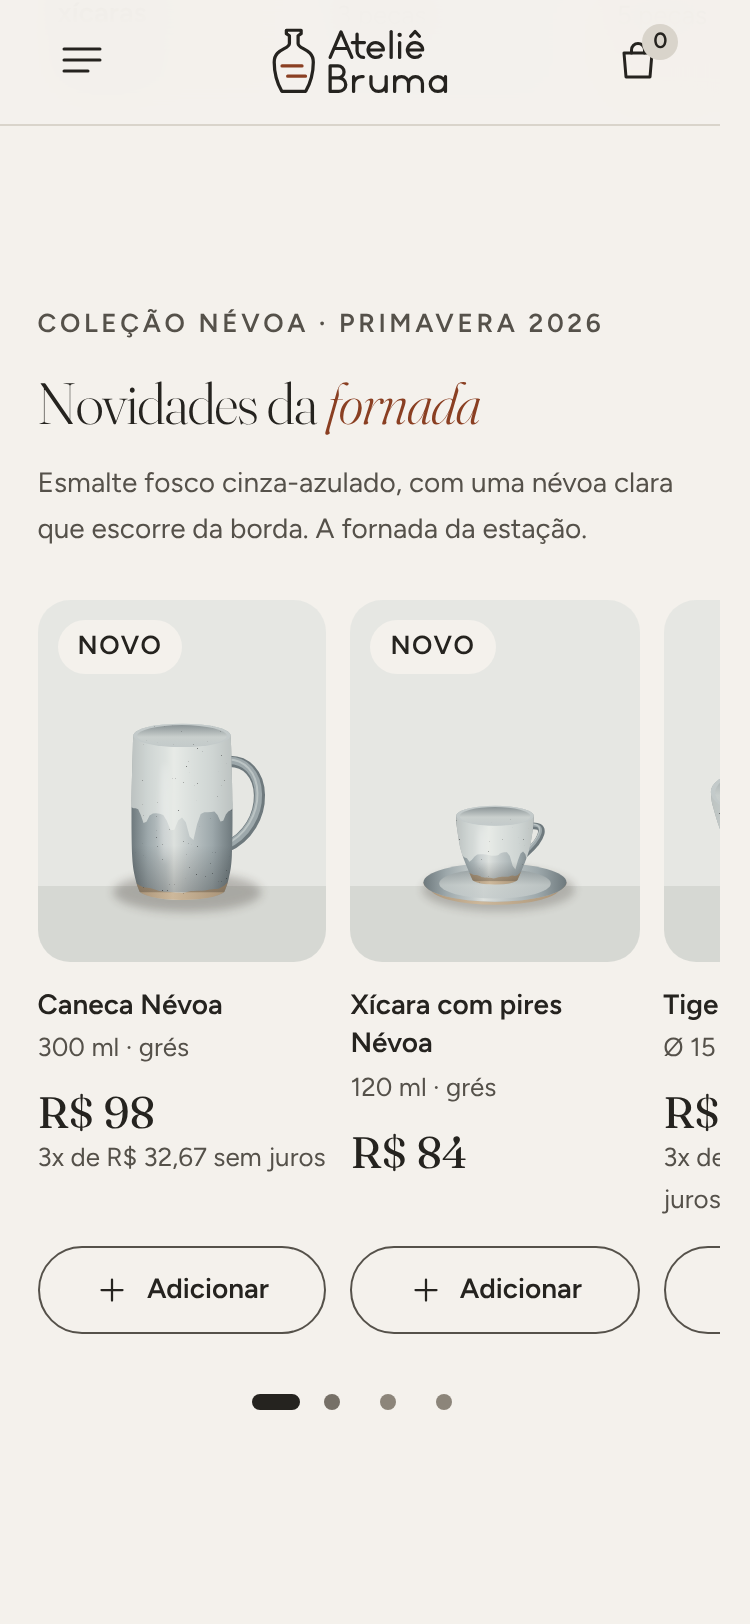
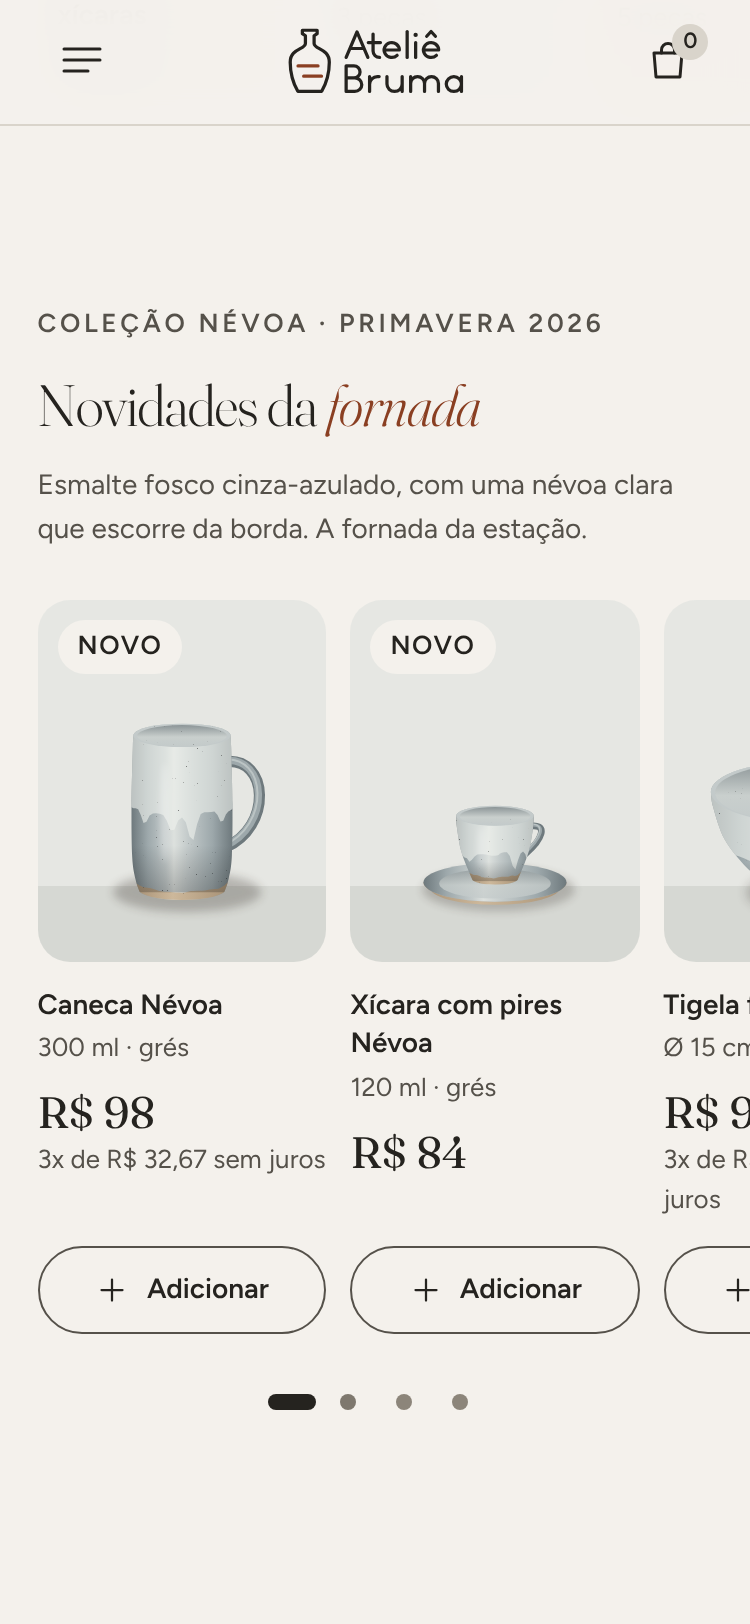
fix(site): margens simétricas no celular e auditoria axe sem violações
Remove a reserva da barra de rolagem fora do desktop (deslocava tudo
15 px), impede a pílula do hero de alargar o painel, unifica o recuo
interno dos painéis em 24 px e espelha os controles dos cantos do hero.
Aviso do topo vira região nomeada e a assinatura do rodapé vira
pseudo-elemento decorativo.

Claude-Session: https://claude.ai/code/session_01FkMrr91MfEycNeFAuJrAR9

diff --git a/site/styles.css b/site/styles.css
@@ -64,13 +64,16 @@
 /* ---------- Base ---------- */
 *, *::before, *::after { box-sizing: border-box; }
 html {
-  scrollbar-gutter: stable;
   -webkit-text-size-adjust: 100%;
   text-size-adjust: 100%;
   scroll-padding-top: var(--anchor-offset);
 }
 @media (prefers-reduced-motion: no-preference) {
   html { scroll-behavior: smooth; }
+}
+/* reserva da barra de rolagem só em telas com mouse: no celular ela deslocava tudo 15 px para a esquerda */
+@media (min-width: 1024px) and (hover: hover) and (pointer: fine) {
+  html { scrollbar-gutter: stable; }
 }
 body {
   margin: 0;
@@ -129,8 +132,9 @@ svg[aria-hidden] { width: 24px; height: 24px; fill: none; stroke: currentColor; 
   display: inline-flex; align-items: center; min-height: 32px; padding: 0 14px;
   border: 1px solid rgb(37 35 31 / 0.16); border-radius: var(--radius-pill); background: var(--background-canvas);
 }
-@media (max-width: 479px) {
-  .kicker--pill { letter-spacing: 0.08em; white-space: nowrap; }
+.kicker--pill { max-width: 100%; white-space: nowrap; }
+@media (max-width: 419px) {
+  .kicker__season { display: none; }
 }
 .sec__lead { color: var(--text-secondary); max-width: 46ch; margin-top: var(--space-3); }
 .sec__aside { color: var(--text-secondary); font-size: var(--size-sm); max-width: 40ch; }
@@ -269,7 +273,7 @@ svg[aria-hidden] { width: 24px; height: 24px; fill: none; stroke: currentColor; 
 /* ---------- Hero ---------- */
 .hero {
   position: relative; isolation: isolate; overflow: hidden;
-  display: grid;
+  display: grid; grid-template-columns: minmax(0, 1fr); /* nenhum filho alarga o painel */
   width: var(--panel-w); margin: var(--space-3) auto 0; border-radius: var(--radius-panel);
   background:
     radial-gradient(120% 70% at 70% 100%, #CDD3D3 0%, transparent 60%),
@@ -327,7 +331,7 @@ svg[aria-hidden] { width: 24px; height: 24px; fill: none; stroke: currentColor; 
 }
 .hero__card--piece {
   display: grid; grid-template-columns: 56px 1fr 44px; align-items: center; gap: var(--space-3);
-  margin: -20px var(--space-3) 0; padding: var(--space-3);
+  margin: -20px var(--space-6) 0; padding: var(--space-3);
 }
 .hero__card-img { width: 56px; height: 70px; border-radius: 12px; object-fit: cover; background: linear-gradient(180deg, var(--tint-nevoa) 79%, var(--tint-nevoa-floor) 79%); }
 .hero__card-text { display: grid; line-height: 1.25; min-width: 0; }
@@ -338,7 +342,7 @@ svg[aria-hidden] { width: 24px; height: 24px; fill: none; stroke: currentColor; 
 .add--float svg { width: 20px; height: 20px; }
 .add--float .add__label { display: none; }
 .hero__card--batch {
-  position: absolute; top: var(--space-3); right: var(--space-3);
+  position: absolute; top: var(--space-4); right: var(--space-4);
   display: inline-flex; align-items: center; min-height: 32px; padding: 0 var(--space-3); border-radius: var(--radius-pill);
   font-size: var(--size-xs); font-weight: var(--weight-semibold);
 }
@@ -359,7 +363,7 @@ svg[aria-hidden] { width: 24px; height: 24px; fill: none; stroke: currentColor; 
 }
 
 @media (min-width: 1024px) {
-  .hero { grid-template-columns: 1fr; min-height: clamp(600px, calc(100svh - var(--header-height) - 32px), 780px); }
+  .hero { min-height: clamp(600px, calc(100svh - var(--header-height) - 32px), 780px); }
   .hero__stage { position: absolute; inset: 0 0 0 42%; height: auto; }
   .hero__sun { width: min(40vw, 540px); top: 7%; left: 52%; }
   .hero__word { font-size: min(20vw, 300px); top: 3%; left: 52%; }
@@ -604,7 +608,7 @@ svg[aria-hidden] { width: 24px; height: 24px; fill: none; stroke: currentColor; 
 .perks .wrap { padding-inline: 0; width: var(--panel-w); }
 .perks__list {
   display: grid; grid-template-columns: 1fr 1fr; gap: var(--space-5) var(--space-4);
-  padding: var(--space-5); border-radius: var(--radius-panel-sm); background: var(--background-surface);
+  padding: var(--space-6); border-radius: var(--radius-panel-sm); background: var(--background-surface);
 }
 .perks li { display: grid; align-content: start; gap: var(--space-3); font-size: var(--size-sm); line-height: 1.35; color: var(--text-secondary); }
 .perks strong { display: block; color: var(--text-primary); font-weight: var(--weight-semibold); }
@@ -621,7 +625,7 @@ svg[aria-hidden] { width: 24px; height: 24px; fill: none; stroke: currentColor; 
 .faq { display: grid; gap: var(--space-8); }
 .faq__list { display: grid; gap: var(--space-3); }
 .faq details {
-  padding: 0 var(--space-5); border-radius: var(--radius-card); background: var(--background-surface);
+  padding: 0 var(--space-6); border-radius: var(--radius-card); background: var(--background-surface);
   box-shadow: inset 0 0 0 1px transparent; transition: background-color var(--motion-base) var(--motion-easing);
 }
 .faq details:hover { background: var(--fog-200); }
@@ -659,6 +663,7 @@ svg[aria-hidden] { width: 24px; height: 24px; fill: none; stroke: currentColor; 
   font-family: var(--stack-display); font-weight: var(--weight-light); font-variation-settings: "opsz" 144;
   font-size: 27vw; line-height: 0.8; letter-spacing: -0.04em; color: rgb(244 241 236 / 0.10);
 }
+.footer__mark::before { content: "Bruma"; } /* decorativo: como pseudo-elemento não entra na leitura nem na checagem de contraste */
 .footer__brand img { margin-bottom: var(--space-3); }
 .footer__col h2 { font-size: var(--size-xs); letter-spacing: 0.14em; text-transform: uppercase; color: var(--text-inverse); margin-bottom: var(--space-3); }
 .footer__col a { display: inline-flex; align-items: center; min-height: 36px; text-decoration: none; }
@@ -709,7 +714,7 @@ svg[aria-hidden] { width: 24px; height: 24px; fill: none; stroke: currentColor; 
 
 /* ---------- Pausa da névoa (WCAG 2.2.2) ---------- */
 .hero__pause {
-  position: absolute; left: var(--gutter); top: var(--space-3); z-index: 7;
+  position: absolute; left: var(--space-4); top: var(--space-4); z-index: 7;
   min-height: 32px; padding: 0 var(--space-3); border: 1px solid rgb(37 35 31 / 0.35); border-radius: var(--radius-pill);
   background: rgb(244 241 236 / 0.75); font-size: var(--size-xs); font-weight: var(--weight-medium);
 }

diff --git a/site/index.html b/site/index.html
@@ -21,7 +21,7 @@
 
 <a class="skip" href="#conteudo">Pular para o conteúdo</a>
 
-<p class="announce">Próxima fornada: 14 de novembro <span class="announce__sep" aria-hidden="true">·</span> <span class="announce__ship">Frete grátis acima de R$ 299</span> <span class="announce__sep announce__sep--2" aria-hidden="true">·</span> <span class="announce__demo">Loja demonstrativa<span class="announce__long">: nenhuma compra é processada</span></span></p>
+<aside class="announce" aria-label="Avisos da loja"><p>Próxima fornada: 14 de novembro <span class="announce__sep" aria-hidden="true">·</span> <span class="announce__ship">Frete grátis acima de R$ 299</span> <span class="announce__sep announce__sep--2" aria-hidden="true">·</span> <span class="announce__demo">Loja demonstrativa<span class="announce__long">: nenhuma compra é processada</span></span></p></aside>
 
 <header class="header" data-header>
   <div class="wrap header__in">
@@ -106,7 +106,7 @@
     </div>
     <p class="hero__card hero__card--batch"><span class="hero__batch-title">Fornada nº 14</span><span class="hero__batch-meta"><span class="hero__batch-sep"> · </span>8 peças<span class="hero__batch-city"> · Curitiba</span></span></p>
     <div class="hero__copy">
-      <p class="kicker kicker--pill">Coleção Névoa · Primavera 2026</p>
+      <p class="kicker kicker--pill">Coleção Névoa<span class="kicker__season"> · Primavera 2026</span></p>
       <h1 id="t-hero" class="hero__title">A névoa<br> virou <em>mesa.</em></h1>
       <p class="hero__lead">Grés de alta temperatura, esmalte fosco e uma fornada por mês. Peças feitas à mão para usar todo dia.</p>
       <div class="hero__cta">
@@ -569,7 +569,7 @@
     </nav>
     <p class="footer__legal">Ateliê Bruma é uma marca fictícia criada para um piloto de avaliação. Produtos, preços e políticas são exemplos e nenhuma compra é processada.</p>
   </div>
-  <p class="footer__mark" aria-hidden="true">Bruma</p>
+  <div class="footer__mark" aria-hidden="true"></div>
   </div>
 </footer>
 

diff --git a/scripts/gerar_site.py b/scripts/gerar_site.py
@@ -267,7 +267,7 @@ def page() -> str:
 
 <a class="skip" href="#conteudo">Pular para o conteúdo</a>
 
-<p class="announce">Próxima fornada: {PROXIMA_FORNADA} <span class="announce__sep" aria-hidden="true">·</span> <span class="announce__ship">Frete grátis acima de {brl(FRETE_GRATIS)}</span> <span class="announce__sep announce__sep--2" aria-hidden="true">·</span> <span class="announce__demo">Loja demonstrativa<span class="announce__long">: nenhuma compra é processada</span></span></p>
+<aside class="announce" aria-label="Avisos da loja"><p>Próxima fornada: {PROXIMA_FORNADA} <span class="announce__sep" aria-hidden="true">·</span> <span class="announce__ship">Frete grátis acima de {brl(FRETE_GRATIS)}</span> <span class="announce__sep announce__sep--2" aria-hidden="true">·</span> <span class="announce__demo">Loja demonstrativa<span class="announce__long">: nenhuma compra é processada</span></span></p></aside>
 
 <header class="header" data-header>
   <div class="wrap header__in">
@@ -340,7 +340,7 @@ def page() -> str:
     <button class="hero__pause" type="button" aria-pressed="false" data-pause-motion>Pausar animação</button>
 {hero_cards()}
     <div class="hero__copy">
-      <p class="kicker kicker--pill">Coleção Névoa · Primavera 2026</p>
+      <p class="kicker kicker--pill">Coleção Névoa<span class="kicker__season"> · Primavera 2026</span></p>
       <h1 id="t-hero" class="hero__title">A névoa<br> virou <em>mesa.</em></h1>
       <p class="hero__lead">Grés de alta temperatura, esmalte fosco e uma fornada por mês. Peças feitas à mão para usar todo dia.</p>
       <div class="hero__cta">
@@ -447,7 +447,7 @@ def page() -> str:
     </nav>
     <p class="footer__legal">Ateliê Bruma é uma marca fictícia criada para um piloto de avaliação. Produtos, preços e políticas são exemplos e nenhuma compra é processada.</p>
   </div>
-  <p class="footer__mark" aria-hidden="true">Bruma</p>
+  <div class="footer__mark" aria-hidden="true"></div>
   </div>
 </footer>
 

diff --git a/docs/ui/revisao-003.md b/docs/ui/revisao-003.md
@@ -175,3 +175,13 @@ Aplicado em `site/styles.css` e `scripts/gerar_site.py` (regera `site/index.html
 - Legendas da faixa "O ateliê" reencaixadas: micro-ondas/lava-louças foi para 1.240 °C, a variação de tom para 14ª fornada, e "1 ceramista" ganhou "torneada e esmaltada à mão pela mesma pessoa".
 - Contrastes refeitos por script: `evidence/UI-003/contrast-check.json` (todos ≥ 4,5:1, iguais ao cálculo manual).
 - Capturas e testes de interação: `evidence/UI-003/render/`.
+
+## 8. Refino de margens no celular (pedido do proprietário, 2026-10-22)
+
+O proprietário viu respiro desigual entre a esquerda e a direita no celular. Medição por script (`evidence/UI-003/a11y/margens-medidas.txt`, 320 a 414 px) achou três causas:
+
+1. `scrollbar-gutter: stable` reservava 15 px à direita mesmo no celular, então tudo ficava deslocado para a esquerda. Agora vale só em telas ≥ 1024 px com mouse.
+2. A pílula "Coleção Névoa · Primavera 2026" não quebrava linha e alargava a coluna do hero além do painel, encurtando o respiro direito do texto (24 px à esquerda, 9 px à direita). A grade do hero agora é `minmax(0, 1fr)`, e abaixo de 420 px a pílula mostra só "Coleção Névoa".
+3. Os recuos internos variavam (12, 20 e 24 px). Agora a regra é uma só: 24 px dentro de todo painel e cartão grande (hero, cartão flutuante, vantagens, ateliê, FAQ, rodapé). Os botões dos cantos do hero ("Pausar animação" e o selo da fornada) ficam a 16 px das duas bordas, espelhados.
+
+Resultado: borda esquerda = borda direita em todos os blocos, em todas as larguras medidas. A exceção é proposital: o trilho dos carrosséis e das categorias corta o próximo cartão na direita (regra do proprietário). Acessibilidade: axe-core 4.10.2 em 320, 375, 768 e 1440 px, 0 violações (`evidence/UI-003/a11y/axe.json`). As duas que apareceram foram corrigidas: o aviso do topo virou região nomeada e a assinatura "Bruma" virou pseudo-elemento decorativo.
